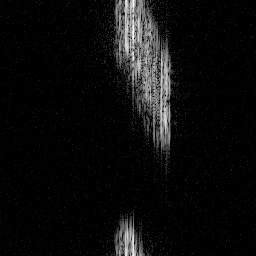
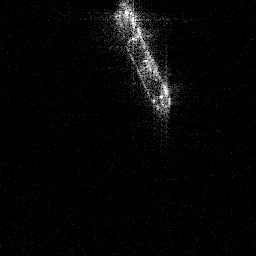
Working on defocusing sicd

Changed region(s): [[0.375, 0.0, 0.7188, 0.6875], [0.4062, 0.8125, 0.5938, 1.0], [0.3438, 0.0312, 0.375, 0.0625]]

diff --git a/stk/autofocus/defocus.py b/stk/autofocus/defocus.py
@@ -1,0 +1,73 @@
+import glob
+import time
+from pathlib import Path
+
+import matplotlib.pyplot as plt
+import numpy as np
+import pandas as pd
+import yaml
+from fire import Fire
+from sarpy.io.complex.sicd import SICDReader
+from sarpy.io.phase_history.cphd import CPHDReader
+from sarpy.visualization.remap import Density
+from scipy.stats import linregress
+
+from stk.chip import Chipper
+from stk.utils.sicd import load_sicd_pixels
+from stk.utils.signal import ft, ift
+from stk.visualize.visualizer import Visualizer
+
+
+def azimuth_defocus(complex_pixels: np.ndarray[np.complex_], ph_err_order: int = 10):
+    """Defocus a complex_image by an nth order polynomial phase error in the azimuth direction.
+    This implementation is largely based on: https://github.com/isaacgerg/synthetic_aperture_sonar_autofocus/blob/master/pga.py
+
+    This function assumes the range is the y-axis and the azimuth is the x-direction.
+    In the original implementation, it assumes the opposite.
+
+    Args:
+        complex_pixels: An image of complex pixels
+        ph_err_order: Order of the random phase error polynomial to the degrade the image by; 
+                      must be greater than 1 becuase removing the linear trend would cancel out the phase error
+    """
+    if ph_err_order <= 1:
+        raise ValueError("Polynomial order of the phase error must be greater than 1.")
+
+    # Since np.poly1d includes the constant, we need to increment by for it to be true nth order polynomial
+    ph_err_order += 1
+
+    # Degrade image with random 9th order polynomial phase;
+    # Generate 10 random coefficients between [-0.5,0.5] and multiply by azimuth length;
+    # for a 256x256 chip, this will generate coefficients between [-128, 128]
+    coeff = (np.random.rand(ph_err_order) - 0.5) * complex_pixels.shape[1]
+
+    # Generate sequential x data points between [-1,1] for each azimuth index
+    x = np.linspace(-1, 1, complex_pixels.shape[1])
+
+    # Evaluate the nth order polynomial at each x point
+    poly = np.poly1d(coeff)
+    y = poly(x)
+
+    print(f"Using polynomial of order: {poly.order}")
+
+    # Create a line from the data using  least-squares regression to remove the linear trend;
+    # I'm not sure why we need to remove the linear trend
+    slope, intercept, r_value, p_value, std_err = linregress(x, y)
+    line = slope * x + np.mean(
+        y
+    )  # np.mean(y) is the same as intercept in this case; this is only true when the data is mean-centered i.e. subtracting the y mean from y and x mean from x
+    y = y - line
+
+    # Repeat the azimuth phase error across the range bins;
+    # Example: y = [[1, 2, 3]]    ph_err = [[1,     2,     3    ]
+    #                                       [1,     2,     3    ]
+    #                                       [1,     2,     3    ]
+    #                                       [...,   ...,   ...  ]
+    #                                       [range, range, range]]
+    ph_err = np.tile(y[np.newaxis, :], (complex_pixels.shape[0], 1))
+
+    # Apply phase error by taking the inverse TODO
+    img_err = ft(ift(complex_pixels, ax=1) * np.exp(1j * ph_err), ax=1)
+    img_err2 = ift(ft(complex_pixels, ax=1) * np.exp(1j * ph_err), ax=1)
+    
+    return img_err, img_err2

diff --git a/stk/utils/signal.py b/stk/utils/signal.py
@@ -1,0 +1,26 @@
+from scipy.fftpack import fft, fft2, fftshift, ifft, ifft2
+
+
+# All FT's assumed to be centered at the origin
+def ft(img_domain_data, ax=-1):
+    """1D Fourier transform complex image domain into signal domain along a specific axis
+
+    Args:
+        img_domain_data: Data in the time domain; typically, this will be complex image data
+        ax: Axis to perform the 1D fourier transform along
+
+    """
+    F = fftshift(fft(fftshift(img_domain_data), axis=ax))
+    return F
+
+
+def ift(sig_domain_data, ax=-1):
+    """1D Inverse fourier transform. Transform frequency domain into the image domain
+    along a specific axis.
+
+    Args:
+        sig_domain_data: Data in the signal/frquency domain
+        ax: Axis to perform the 1D inverse fourier transform along
+    """
+    f = fftshift(ifft(fftshift(sig_domain_data), axis=ax))
+    return f

diff --git a/stk/utils/sicd.py b/stk/utils/sicd.py
@@ -1,6 +1,7 @@
 # Utility file for SICD operations
 from pathlib import Path
 from typing import Tuple
+import pandas as pd
 
 import numpy as np
 from sarpy.io.complex.sicd import SICDReader
@@ -19,3 +20,23 @@ def load_sicd_pixels(sicd_path: Path) -> Tuple[np.ndarray, SICDReader]:
     sicd_reader = SICDReader(sicd_path)
     sicd_pixels = sicd_reader[:]
     return sicd_pixels, sicd_reader
+
+def load_ordered_chips(chips_root_path):
+    """Load the sicd chips in order from a csv file and return a list of chip paths
+    
+    Args:
+        chips_root_path: Path to the scid chips
+    """
+    sicd_csv = pd.read_csv(chips_root_path / f"{chips_root_path.stem}.csv")
+
+    # Gather chip paths in order; glob does not have a great way to load the file paths in order
+    chip_names = sicd_csv["chip_name"].tolist()
+    apply_full_path = lambda file, root: f"{root}/{file}.npy"
+
+    full_chip_paths = [
+        apply_full_path(f_name, chips_root_path) for f_name in chip_names
+    ]
+    return full_chip_paths
+
+def load_sicd_json():
+    

diff --git a/scripts/test.py b/scripts/test.py
@@ -27,16 +27,16 @@ from scipy.fftpack import fft, fft2, fftshift, ifft, ifft2
 # --------------------------------------------------------------------------------------
 def pga(img, win="auto", win_params=[100, 0.5], shadow_pga=False):
     """TODO
-    
+
     page 269 in Carrara
-    
+
     Args:
-    
+
     """
 
     ## NOTE: Might have to start with only range compressed data... i.e take the FFT in the azimuth direction
     ## Will have to test this out on a defocused chip
-    
+
     # Derive parameters
     npulses = int(img.shape[0])
     nsamples = int(img.shape[1])

diff --git a/scripts/visualize/visualize_chips.py b/scripts/visualize/visualize_chips.py
@@ -31,11 +31,13 @@ def main(base_config_path: str):
     output_dir = Path(base_config["output_path"])
     output_dir.mkdir(parents=True, exist_ok=True)
 
-    sicd_path = Path(base_config["data"]["chips"])
-    sicd_name = sicd_path.name
+    chips_path = Path(base_config["data"]["chips"])
+    sicd_name = chips_path.name
+
+    ## TODO: Load chips with csv, not glob
 
     # Gather all chip paths
-    chip_paths = sorted(glob.glob(str(sicd_path / "*.npy")))
+    chip_paths = sorted(glob.glob(str(chips_path / "*.npy")))
 
     # Load sicd metadata for remap
     metadata_name = output_dir / "remapped_sicds" / f"{sicd_name}.json"